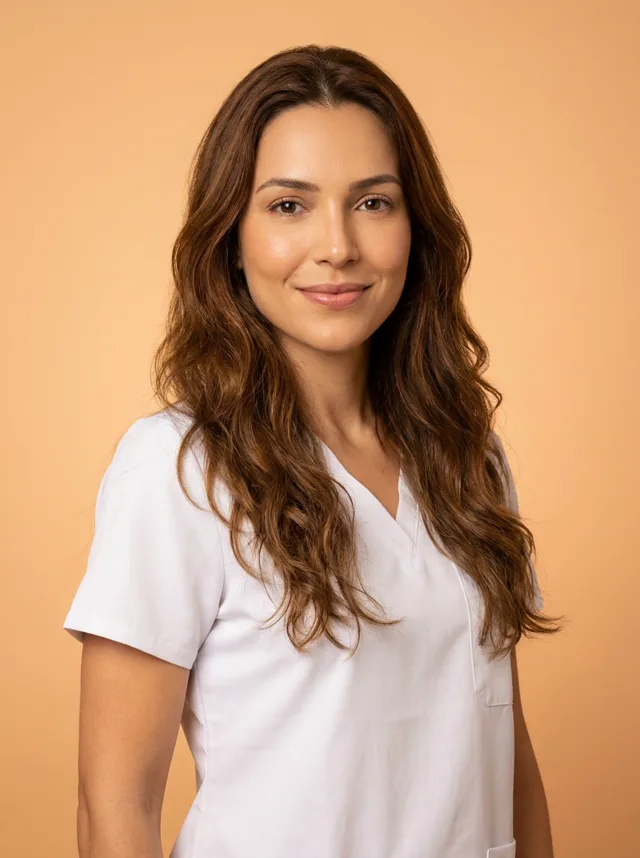
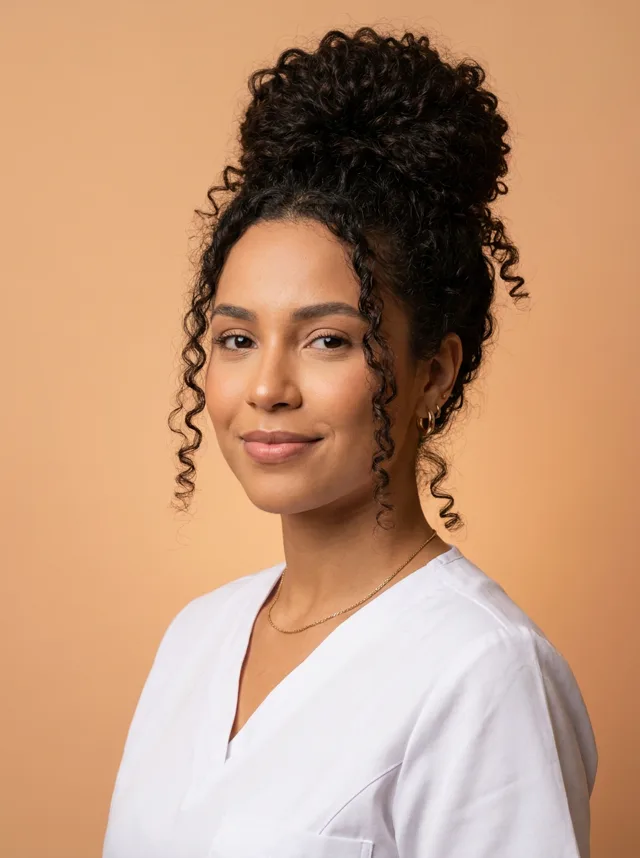
Nova foto da Juliana: cachos presos em coque alto

diff --git a/index.html b/index.html
@@ -446,7 +446,7 @@
           <p class="pessoa__registro">CRBM 00000</p>
         </li>
         <li class="pessoa">
-          <figure class="pessoa__retrato" data-foto><img src="assets/img/equipe-juliana.webp" width="640" height="857" alt="Foto de exemplo: Juliana Reis, enfermeira dermatológica de cabelo castanho ondulado, de blusa clínica branca" loading="lazy"></figure>
+          <figure class="pessoa__retrato" data-foto><img src="assets/img/equipe-juliana.webp" width="640" height="857" alt="Foto de exemplo: Juliana Reis, enfermeira dermatológica de cabelo cacheado preso, de blusa clínica branca" loading="lazy"></figure>
           <h3>Juliana Reis</h3>
           <p>Enfermeira dermatológica. Laser, corporal e acompanhamento pós-procedimento.</p>
           <p class="pessoa__registro">COREN-SP 000000</p>
